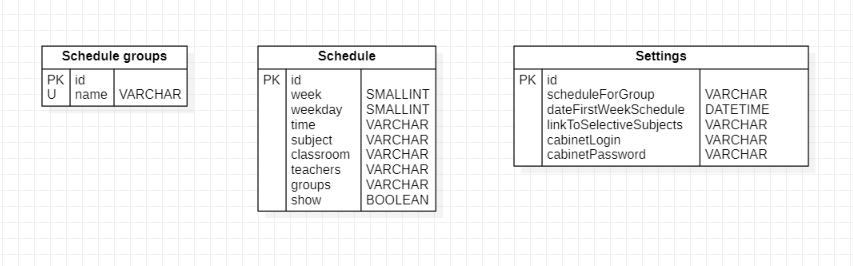
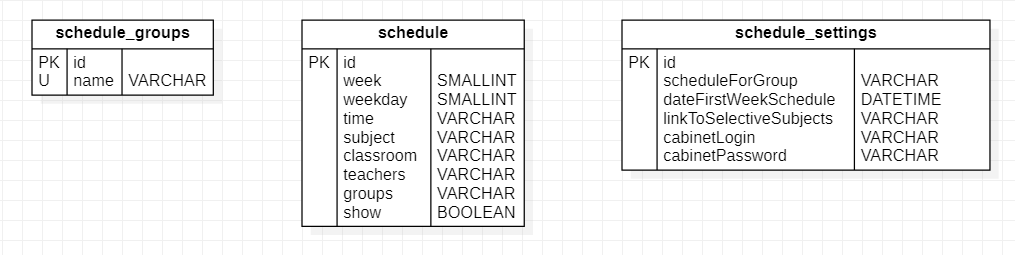
renamed "settings" to "schedule-settings"

diff --git a/server/src/schedule-settings/schedule-settings.service.ts b/server/src/schedule-settings/schedule-settings.service.ts
@@ -2,25 +2,25 @@ import { Injectable } from '@nestjs/common';
 import { InjectRepository } from '@nestjs/typeorm';
 import { Repository } from 'typeorm';
 
-import { UpdateSettingsDto } from './dto/update-settings.dto';
-import { SettingsEntity } from './settings.entity';
+import { UpdateScheduleSettingsDto } from './dto/update-schedule-settings.dto';
+import { ScheduleSettingsEntity } from './schedule-settings.entity';
 
 @Injectable()
-export class SettingsService {
+export class ScheduleSettingsService {
   constructor(
-    @InjectRepository(SettingsEntity)
-    private readonly settingsRepository: Repository<SettingsEntity>,
+    @InjectRepository(ScheduleSettingsEntity)
+    private readonly settingsRepository: Repository<ScheduleSettingsEntity>,
   ) {}
 
-  async getFirstSettings(): Promise<SettingsEntity> {
+  async getFirstSettings(): Promise<ScheduleSettingsEntity> {
     const settings = await this.settingsRepository.findOneBy({});
 
     return settings;
   }
 
   async updateFirstSettings(
-    updateSettingsDto: UpdateSettingsDto,
-  ): Promise<SettingsEntity> {
+    updateSettingsDto: UpdateScheduleSettingsDto,
+  ): Promise<ScheduleSettingsEntity> {
     const {
       scheduleForGroup,
       dateFirstWeekSchedule,
@@ -30,6 +30,11 @@ export class SettingsService {
     } = updateSettingsDto;
 
     let settings = await this.getFirstSettings();
+
+    // if the group is changed, then update the schedule
+    if (!settings || settings.scheduleForGroup !== scheduleForGroup) {
+      // TODO
+    }
 
     if (!settings) {
       settings = this.settingsRepository.create({ ...updateSettingsDto });

diff --git a/server/src/schedule-settings/schedule-settings.controller.ts b/server/src/schedule-settings/schedule-settings.controller.ts
@@ -1,0 +1,22 @@
+import { Body, Controller, Get, Put } from '@nestjs/common';
+
+import { UpdateScheduleSettingsDto } from './dto/update-schedule-settings.dto';
+import { ScheduleSettingsService } from './schedule-settings.service';
+import { ScheduleSettingsEntity } from './schedule-settings.entity';
+
+@Controller('schedule-settings')
+export class ScheduleSettingsController {
+  constructor(private settingsService: ScheduleSettingsService) {}
+
+  @Get('/first')
+  getFirstSettings(): Promise<ScheduleSettingsEntity> {
+    return this.settingsService.getFirstSettings();
+  }
+
+  @Put('/first')
+  updateFirstSettings(
+    @Body() updateSettingsDto: UpdateScheduleSettingsDto,
+  ): Promise<ScheduleSettingsEntity> {
+    return this.settingsService.updateFirstSettings(updateSettingsDto);
+  }
+}

diff --git a/server/src/schedule-settings/schedule-settings.module.ts b/server/src/schedule-settings/schedule-settings.module.ts
@@ -1,0 +1,13 @@
+import { Module } from '@nestjs/common';
+import { TypeOrmModule } from '@nestjs/typeorm';
+
+import { ScheduleSettingsController } from './schedule-settings.controller';
+import { ScheduleSettingsService } from './schedule-settings.service';
+import { ScheduleSettingsEntity } from './schedule-settings.entity';
+
+@Module({
+  imports: [TypeOrmModule.forFeature([ScheduleSettingsEntity])],
+  controllers: [ScheduleSettingsController],
+  providers: [ScheduleSettingsService],
+})
+export class SettingsModule {}

diff --git a/server/src/schedule-settings/schedule-settings.entity.ts b/server/src/schedule-settings/schedule-settings.entity.ts
@@ -1,8 +1,8 @@
 import { Exclude } from 'class-transformer';
 import { Column, Entity, PrimaryGeneratedColumn } from 'typeorm';
 
-@Entity('settings')
-export class SettingsEntity {
+@Entity('schedule_settings')
+export class ScheduleSettingsEntity {
   @PrimaryGeneratedColumn('uuid')
   id: string;
 

diff --git a/server/src/schedule-settings/dto/update-schedule-settings.dto.ts b/server/src/schedule-settings/dto/update-schedule-settings.dto.ts
@@ -5,7 +5,7 @@ import {
   IsString,
 } from 'class-validator';
 
-export class UpdateSettingsDto {
+export class UpdateScheduleSettingsDto {
   @IsNotEmpty()
   @IsString()
   scheduleForGroup: string;
